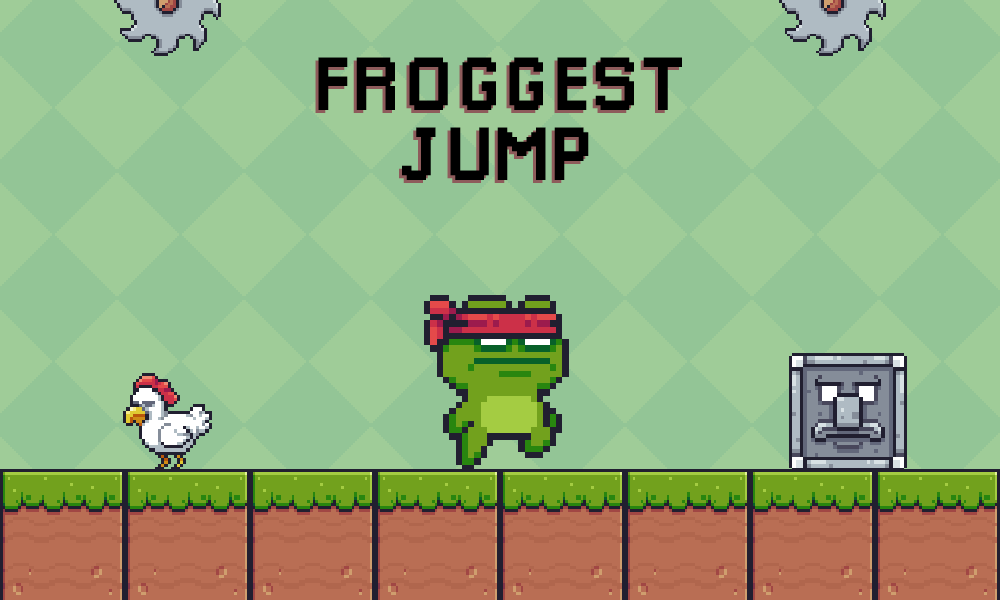
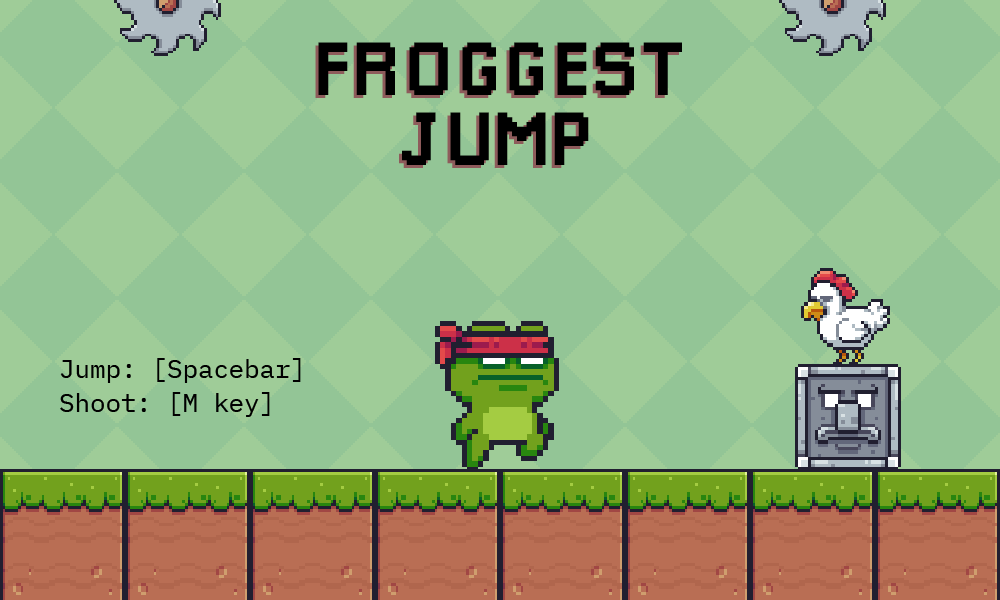
fix highscore and add instructions

diff --git a/js/game.js b/js/game.js
@@ -1,5 +1,8 @@
 const canvas = document.getElementById("canvas");
 const ctx = canvas.getContext("2d");
+const finalScore = document.getElementById("score");
+const finalHighestScore = document.getElementById("highest-score");
+let highestScore = 0;
 
 canvas.width = 1000;
 canvas.height = 600;
@@ -244,6 +247,7 @@ class Game {
     this.bg = new Scenario(0, canvas.width, 0, canvas.width, canvas.height, 0.5, bgImage, this);
     this.frog = new Player(this);
     this.animationLoop;
+    this.gameOverAlreadyRun = false;
   }
 
   buildScenario() {
@@ -304,7 +308,7 @@ class Game {
   drawScore() {
     ctx.font = "20px IBM Plex Mono";
     ctx.fillStyle = "#1E1E1E";
-    ctx.fillText(`Score ${this.currentScore} / ${this.highscore}`, 15, 40);
+    ctx.fillText(`Score ${this.currentScore} / ${highestScore}`, 15, 40);
     this.currentScore++;
   }
 
@@ -319,13 +323,27 @@ class Game {
   }
 
   gameOver() {
-    if (this.currentScore > this.highscore) {
-      this.highscore = this.currentScore;
-    }
-    this.currentScore = 0;
-    gameOverPage.classList.remove("hidden");
-    canvas.classList.add("hidden");
-    cancelAnimationFrame(this.animationLoop);
+      if(!this.gameOverAlreadyRun) {
+          this.gameOverAlreadyRun = true;
+        if (this.currentScore > highestScore) {
+            highestScore = this.currentScore;
+          }
+          this.drawFinalScore();
+          gameOverPage.classList.remove("hidden");
+          canvas.classList.add("hidden");
+          cancelAnimationFrame(this.animationLoop);
+          this.currentScore = 0;
+      }
+  }
+
+  drawFinalScore() {
+
+    finalScore.innerText = `SCORE: ${this.currentScore}`;
+    finalHighestScore.innerText = `HIGHEST SCORE: ${highestScore}`
+
+    console.log("estou dentro do draw")
+    console.log(this.currentScore)
+
   }
 
   debug() {
@@ -348,18 +366,18 @@ class Game {
     this.updateBullets();
 
     // this.debug();
-    this.drawScore();
     if (this.calculateCollisions()) {
-      this.frog.dying = true;
-      this.gameSpeed = 0;
-      loseSound.play();
-      chickenSound.pause();
-      chickenSound.currentTime = 0;
-      setTimeout(() => {
-        this.gameOver();
-      }, 600);
+        this.frog.dying = true;
+        this.gameSpeed = 0;
+        loseSound.play();
+        chickenSound.pause();
+        chickenSound.currentTime = 0;
+        setTimeout(() => {
+            this.gameOver();
+        }, 600);
     } else {
-      this.frog.dying = false;
+        this.frog.dying = false;
+        this.drawScore();
     }
     this.gameFrame++;
     this.animationLoop = requestAnimationFrame(this.animate); // Looping

diff --git a/styles/style.css b/styles/style.css
@@ -33,6 +33,7 @@ body {
 
 .start-btn {
     background: #ffc124;
+    transform: translate(-50%, -140%);
 }
 
 .start-btn:hover {
@@ -41,21 +42,45 @@ body {
 
 .over-btn {
     background: #f3acab;
+    transform: translate(-50%, -90%);
 }
 .over-btn:hover {
     background: #bb807f;
 }
 
 .btn {
+    cursor: pointer;
     position: absolute;
     top: 50%;
     left: 50%;
     width: 200px;
     padding: 10px;
-    transform: translate(-50%, -140%);
     font-size: 35px;
     font-family: "IBM Plex Mono";
     border-radius: 20px;
     box-shadow: 6px 9px 3px -3px rgb(45, 44, 44);
 }
 
+#score {
+    font-size: 35px;
+    font-family: "IBM Plex Mono";
+    color: #1E1E1E;
+    text-align: center;
+    position: absolute;
+    top: 50%;
+    left: 50%;
+    transform: translate(-50%, -600%);
+    margin: 0;
+}
+
+#highest-score {
+    font-size: 25px;
+    font-family: "IBM Plex Mono";
+    color: #1E1E1E;
+    text-align: center;
+    position: absolute;
+    top: 50%;
+    left: 50%;
+    transform: translate(-50%, -700%);
+    margin: 0;
+}

diff --git a/index.html b/index.html
@@ -22,6 +22,8 @@
     </div>
 
     <div id="game-over">
+        <h1 id="score"></h1>
+        <h2 id="highest-score"></h2>
         <img src="./assets/images/gameover.png" alt="game over image">
         <button class="btn over-btn">Restart!</button>
     </div>
